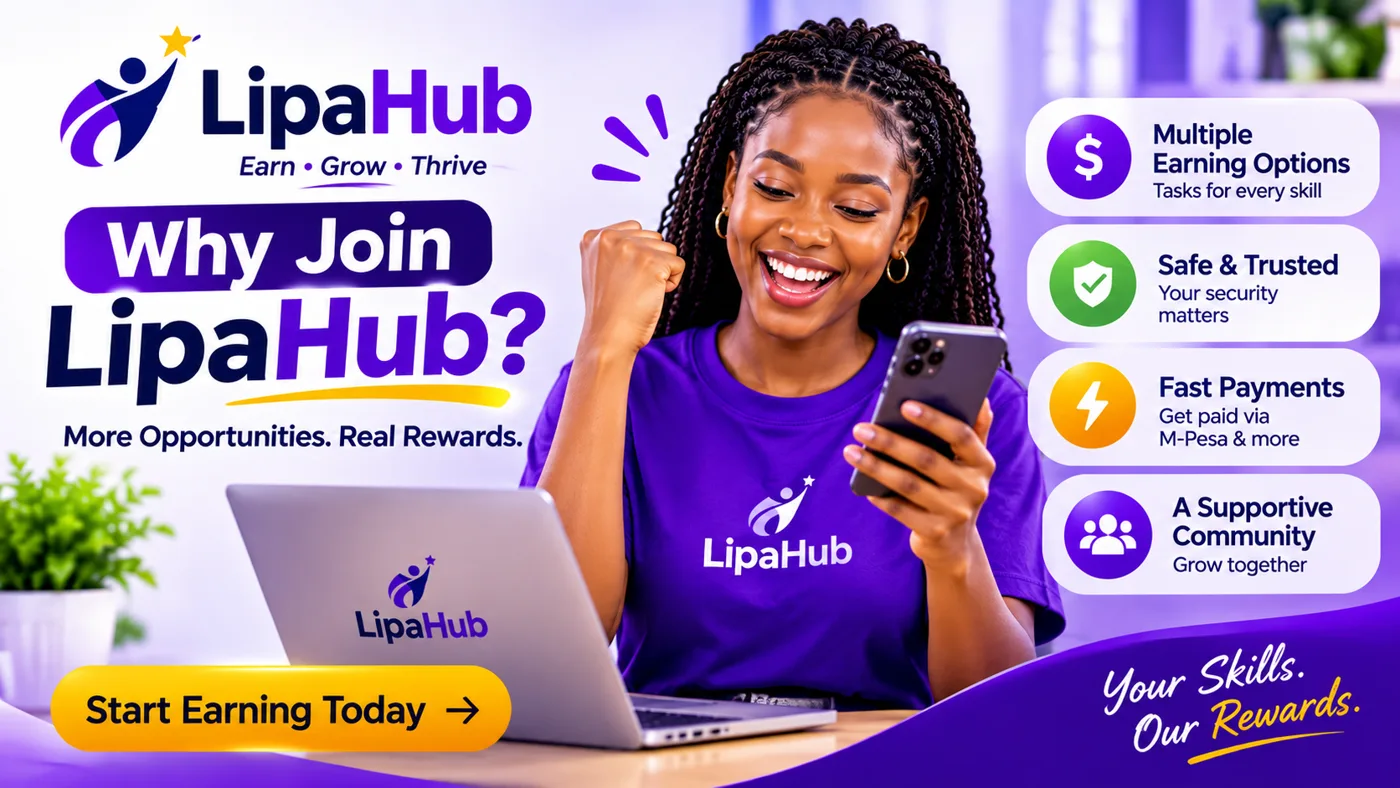
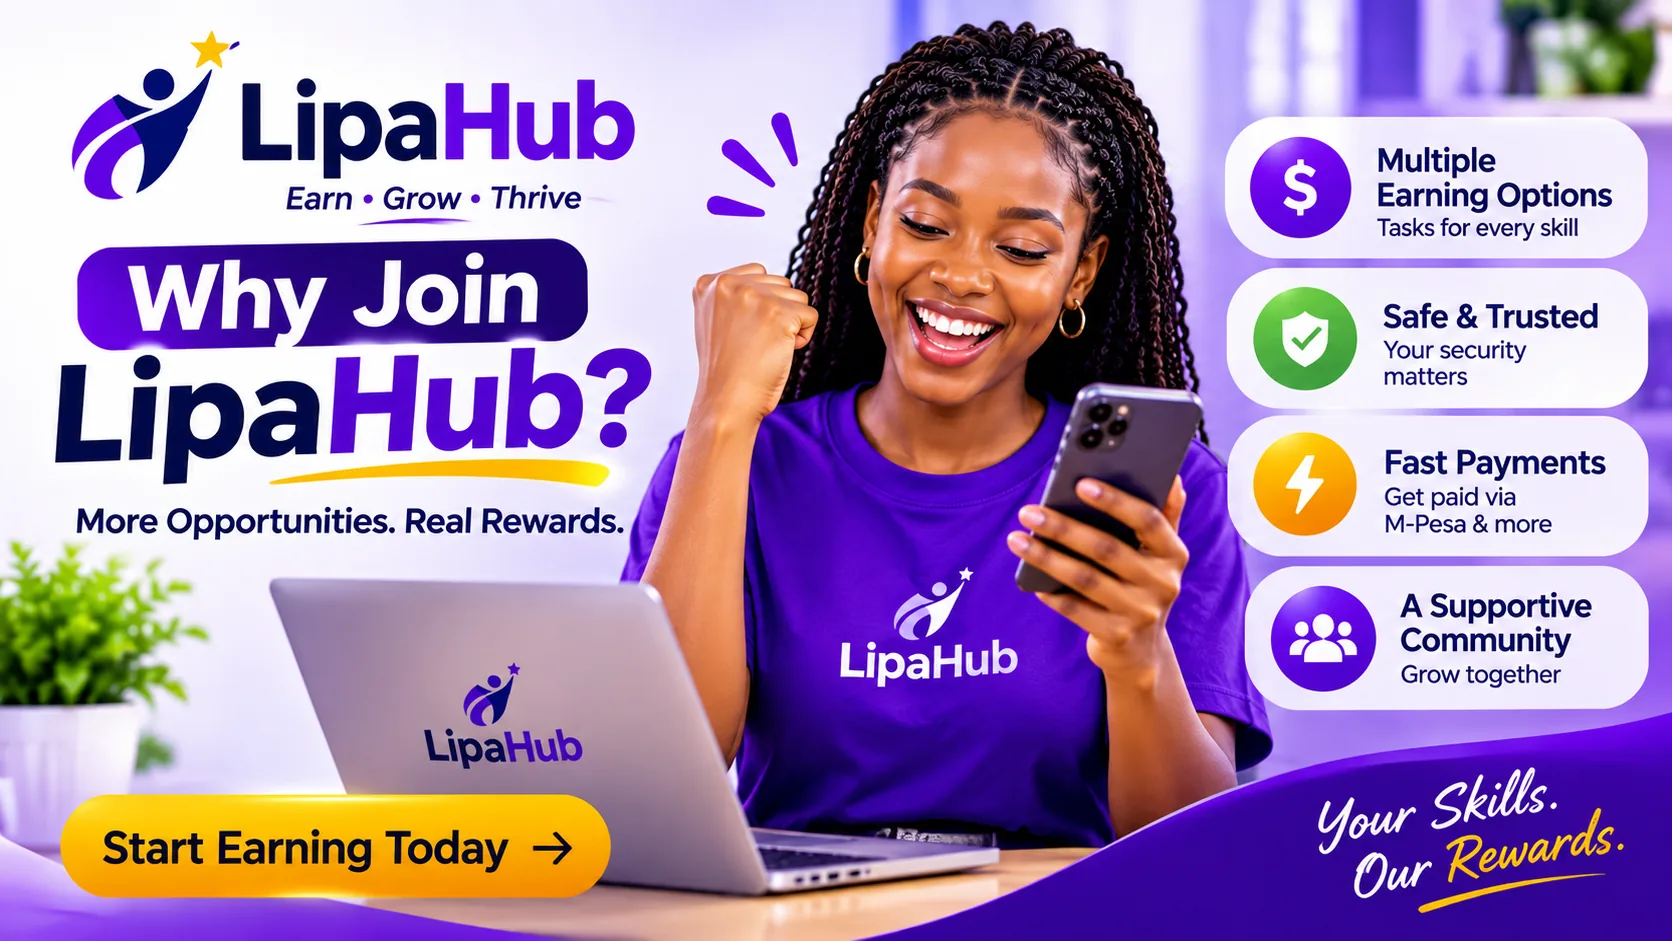
update website

Changed region(s): [[0.9214, 0.8832, 0.9521, 0.9137]]

diff --git a/index.html b/index.html
@@ -14,7 +14,7 @@
       property="og:description"
       content="Earn from hotel reviews, chatting with foreigners and teaching Kiswahili. Withdraw via M-Pesa, Airtel Money or MTN Mobile Money."
     />
-    <meta property="og:image" content="https://lipahub.com/assets/earn-online-with-lipahub.webp" />
+    <meta property="og:image" content="https://lipahub.com/assets/lipahub-earn-online.webp" />
     <meta property="og:url" content="https://lipahub.com" />
     <meta property="og:type" content="website" />
     <meta name="twitter:card" content="summary_large_image" />
@@ -67,7 +67,7 @@
     <header class="site-header" id="siteHeader">
       <div class="wrap header-bar">
         <a href="#top" class="logo" aria-label="LipaHub home">
-          <img src="assets/lipahub-logo.png" alt="LipaHub" width="686" height="141" />
+          <img src="assets/lipahub-logo.webp" alt="LipaHub" width="686" height="141" />
         </a>
         <nav class="main-nav" id="mainNav" aria-label="Main navigation">
           <a href="#how">How It Works</a>
@@ -109,8 +109,8 @@
           </div>
           <div class="hero-media">
             <picture>
-              <source srcset="assets/earn-online-with-lipahub.webp" type="image/webp" />
-              <img src="assets/earn-online-with-lipahub.png" alt="Smiling woman using LipaHub on her phone, with Review Hotels, Chat with Foreigners and Teach Kiswahili options" width="1400" height="700" fetchpriority="high" />
+              <source srcset="assets/lipahub-earn-online.webp" type="image/webp" />
+              <img src="assets/lipahub-earn-online.webp" alt="Smiling woman using LipaHub on her phone, with Review Hotels, Chat with Foreigners and Teach Kiswahili options" width="1400" height="700" fetchpriority="high" />
             </picture>
           </div>
         </div>
@@ -346,7 +346,7 @@
     <footer class="site-footer">
       <div class="wrap footer-grid">
         <div class="footer-brand">
-          <a href="#top" class="logo" aria-label="LipaHub home"><img src="assets/lipahub-logo.png" alt="LipaHub" width="686" height="141" loading="lazy" /></a>
+          <a href="#top" class="logo" aria-label="LipaHub home"><img src="assets/lipahub-logo.webp" alt="LipaHub" width="686" height="141" loading="lazy" /></a>
           <p>Earn online through partner opportunities, daily activities and referrals.</p>
         </div>
         <div>
